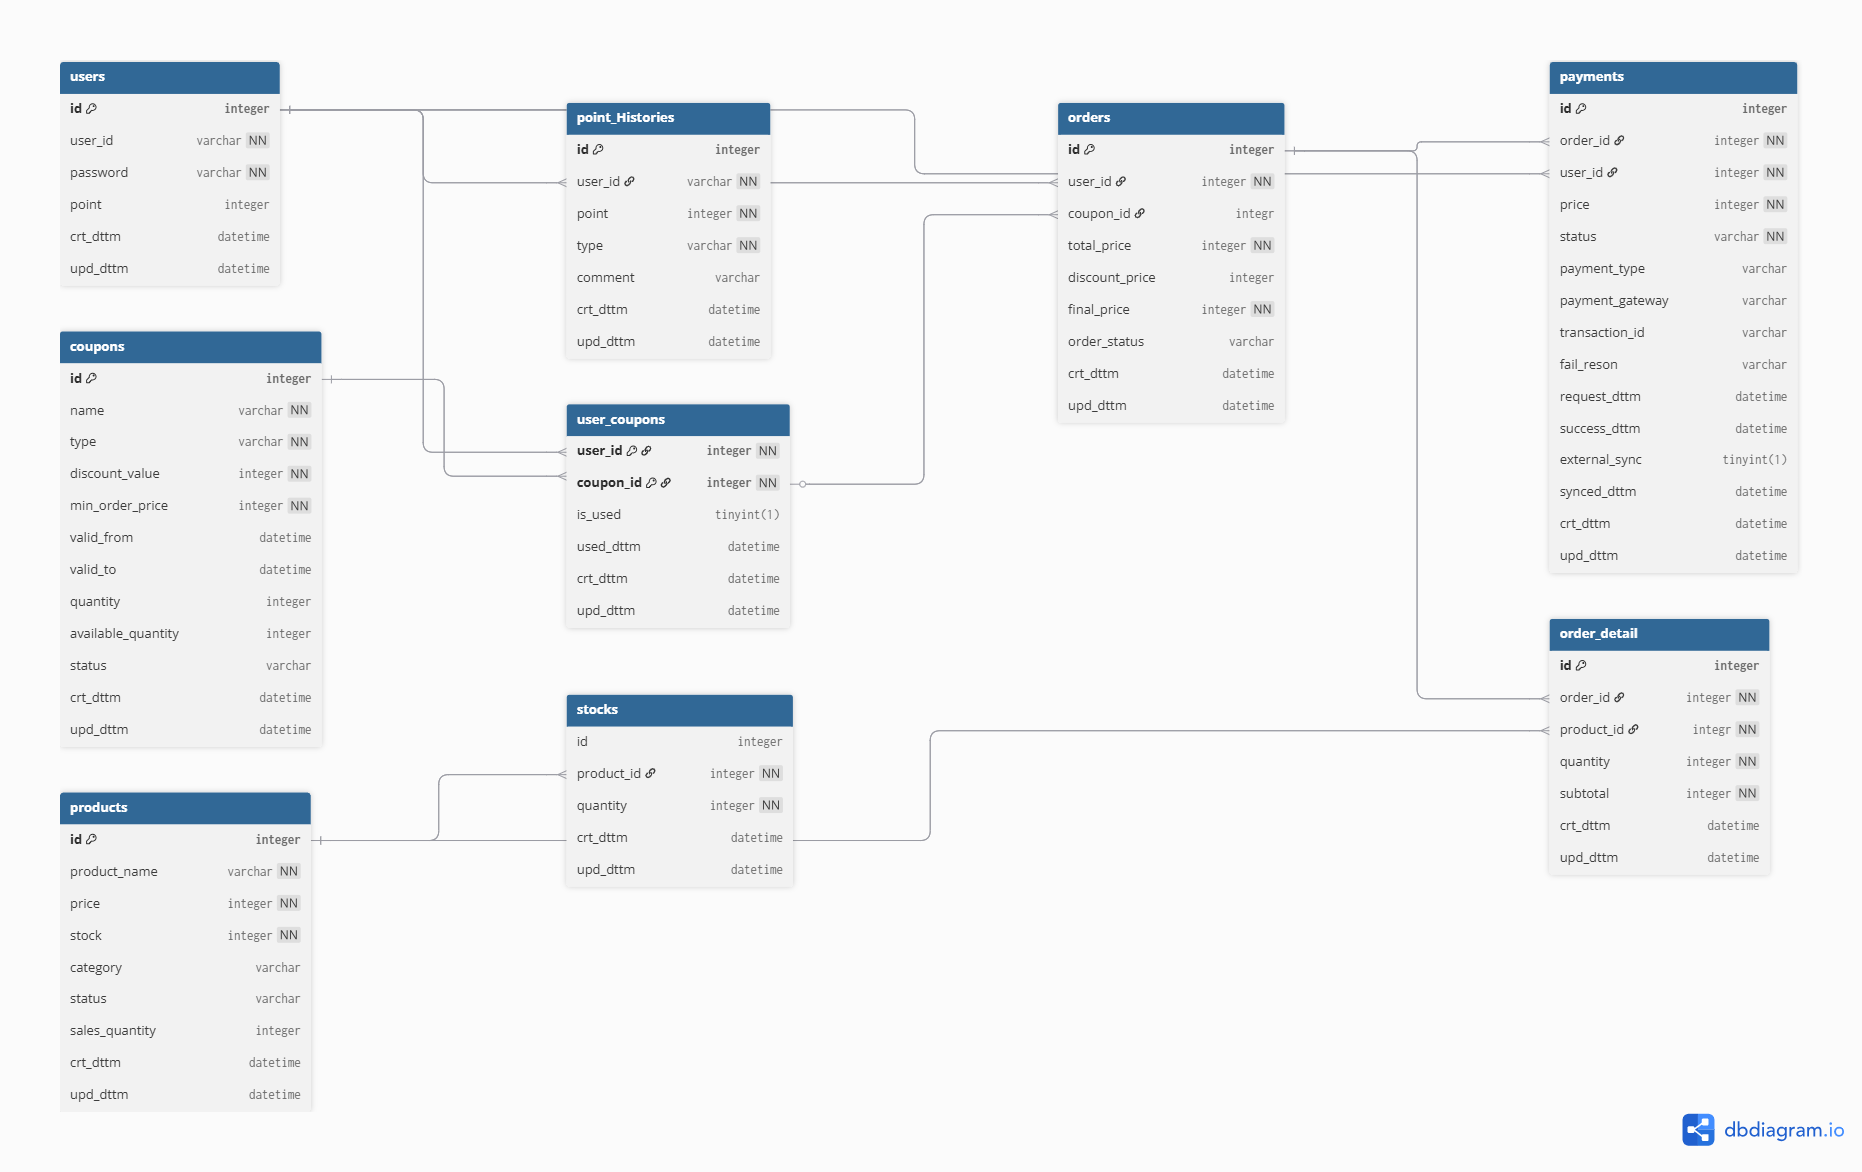
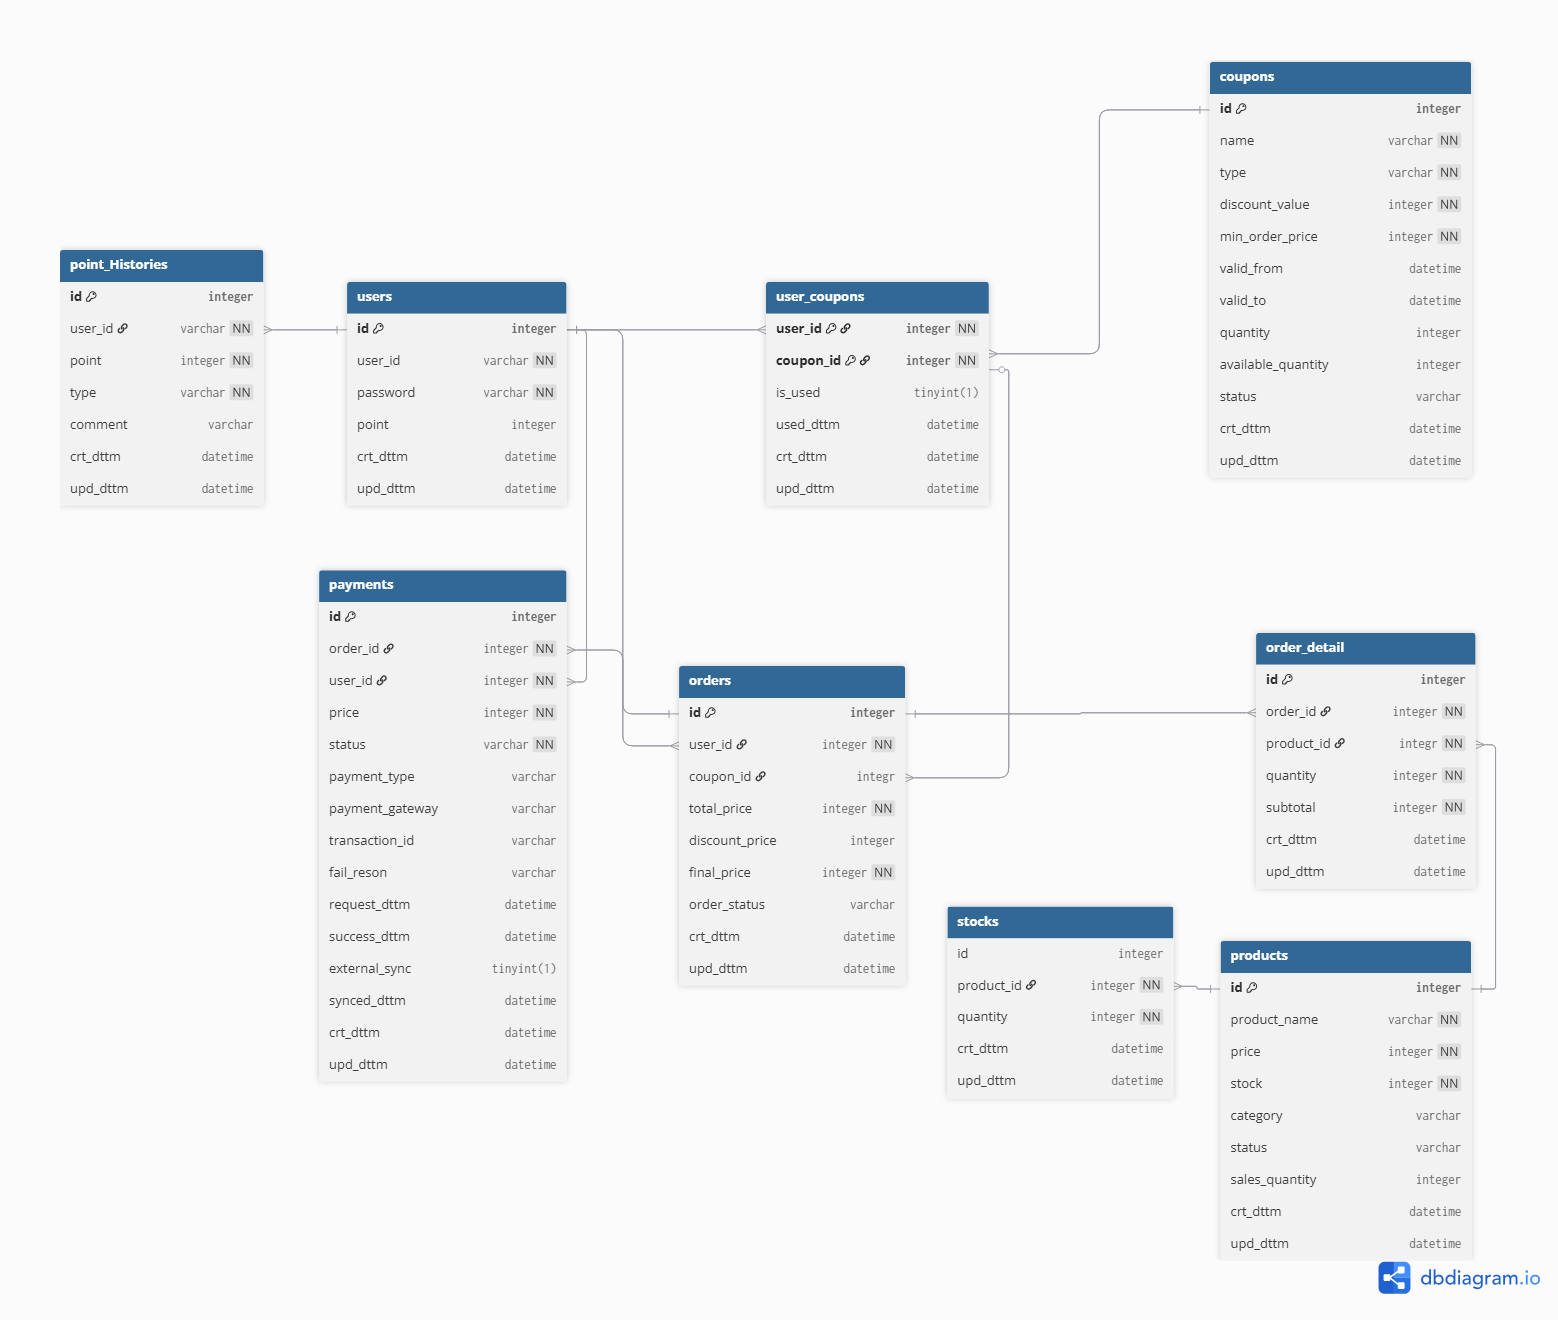
Docs: ERD png파일 추가

diff --git a/docs/ERD.md b/docs/ERD.md
@@ -1,3 +1,9 @@
+## 📊 ERD 다이어그램
+
+![ERD Diagram](./image/erd.png)
+
+---
+
 Table users {
   id integer [primary key, note: '식별자']
   user_id varchar [unique, not null, note: '유저 ID']
